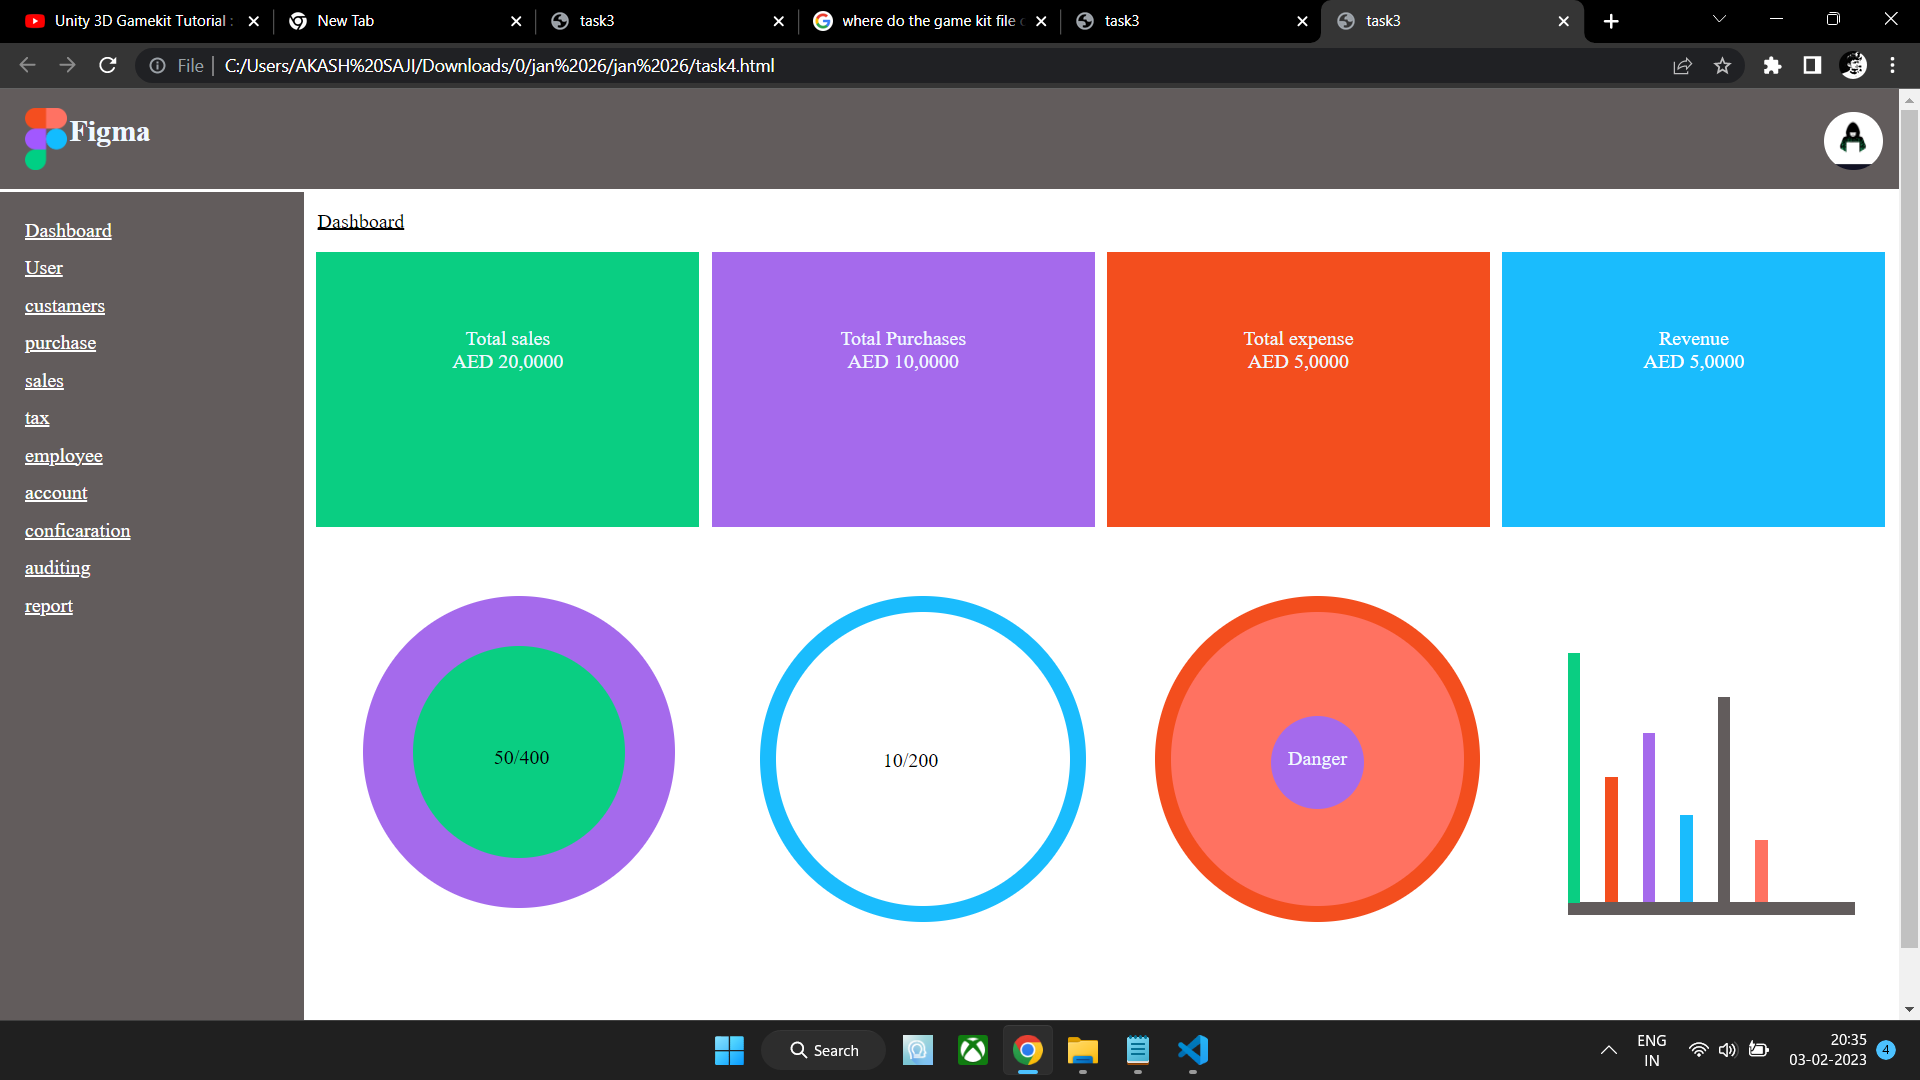
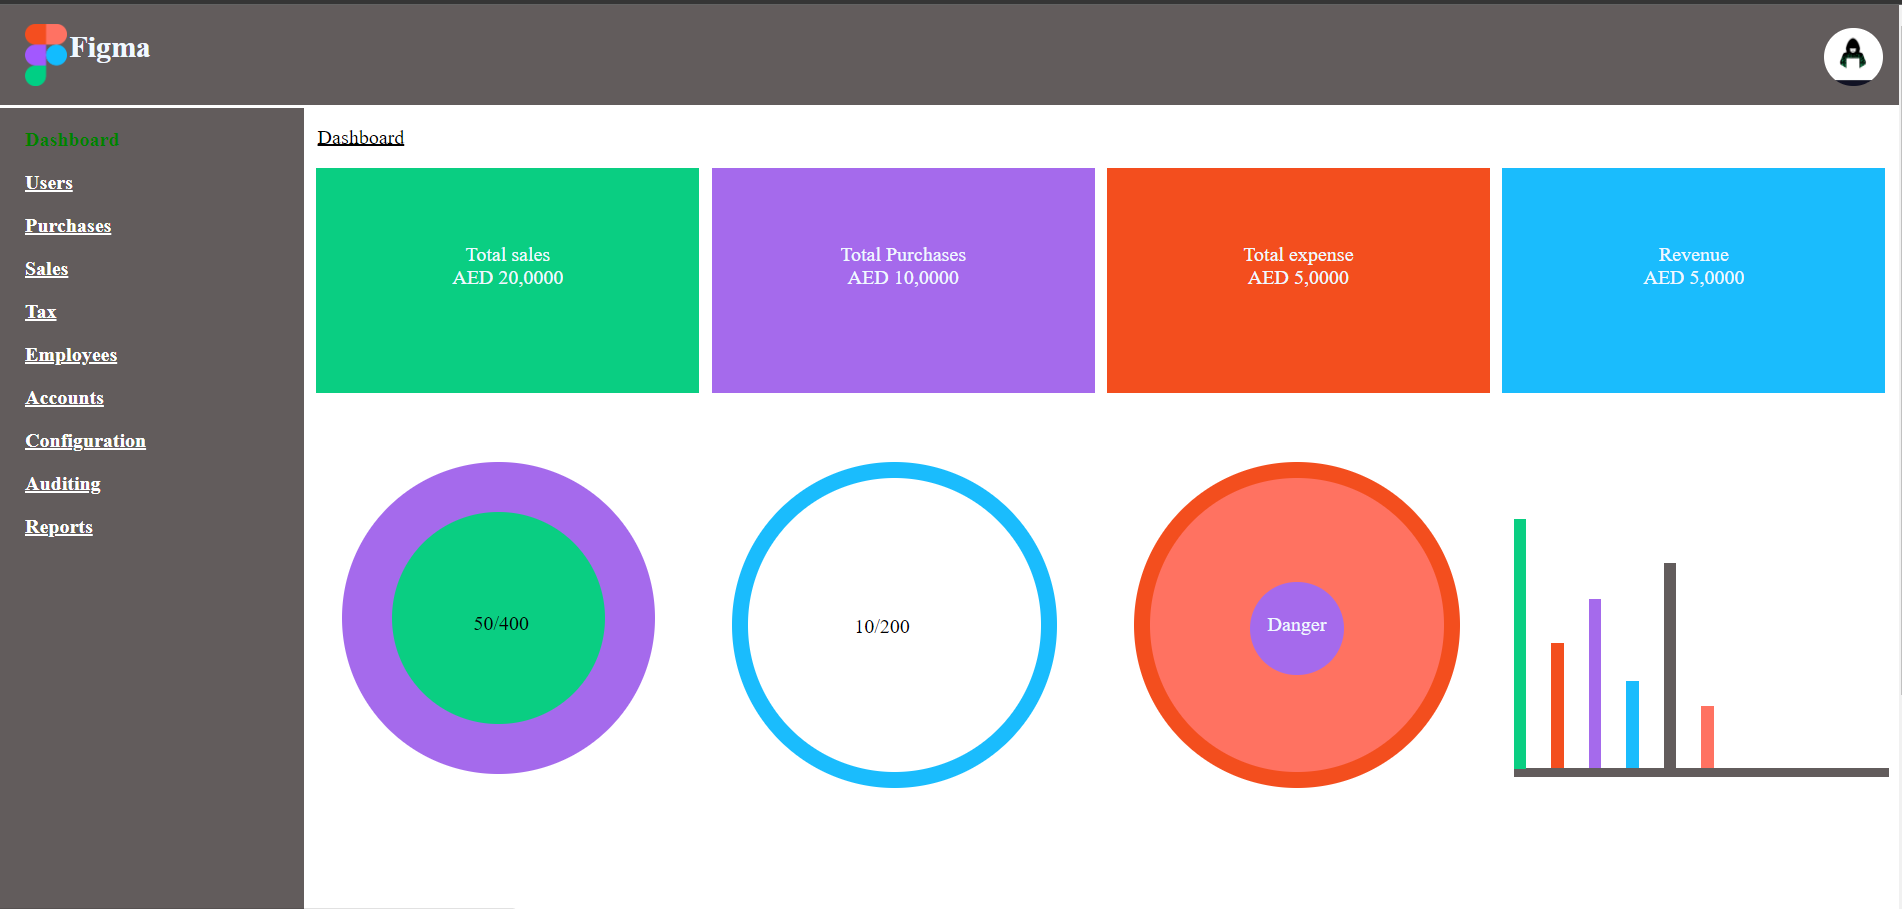
fixed the tasks

diff --git a/task-4/css/style.css b/task-4/css/style.css
@@ -34,7 +34,7 @@ body {
 }
 #sidebar {
   width: 16%;
-  height: 710px;
+  height: 910px;
   overflow: hidden;
   margin-top: 2px;
   background-color: rgb(98, 92, 92);
@@ -45,11 +45,10 @@ body {
   padding-left: 20px;
   color: rgb(255, 255, 255);
 }
-#sidebar h3 a:hover {
+#sidebar p a:hover {
   color: green;
   padding-top: 8px;
   padding-left: 20px;
-
   text-decoration: none;
 }
 #mainbody {
@@ -64,16 +63,16 @@ body {
   color: black;
 }
 #mainbody .dashboard2 {
-width: 24%;
-  height: 220px;
+  width: 24%;
+  height: 180px;
   background-color: rgb(165, 106, 236);
   float: left;
   margin-left: 10px;
   margin-bottom: 55px;
 }
-#mainbody .dashboard3{
+#mainbody .dashboard3 {
   width: 24%;
-  height: 220px;
+  height: 180px;
   background-color: rgb(165, 106, 236);
   float: left;
   margin-left: 10px;
@@ -81,7 +80,7 @@ width: 24%;
 }
 #mainbody .dashboard4 {
   width: 24%;
-  height: 220px;
+  height: 180px;
   background-color: rgb(165, 106, 236);
   float: left;
   margin-left: 10px;
@@ -89,7 +88,7 @@ width: 24%;
 }
 #mainbody .dashboard1 {
   width: 24%;
-  height: 220px;
+  height: 180px;
   background-color: rgb(165, 106, 236);
   float: left;
   margin-left: 10px;
@@ -143,17 +142,17 @@ width: 24%;
   height: 250px;
   background-color: rgb(165, 106, 236);
   float: left;
-  margin-left: 1vw;
+  margin-left: 2vw;
   border-radius: 50%;
 }
 #mainbody .circle3 {
   background-color: rgb(255, 114, 97);
-  margin-left: 1.5vw;
+  margin-left: 4vw;
   border-color: rgb(243, 78, 30);
 }
 #mainbody .circle2 {
   background-color: rgb(255, 255, 255);
-  margin-left: 1.5vw;
+  margin-left: 4vw;
   border-color: rgb(26, 188, 253);
 }
 #mainbody .circle4 {
@@ -181,8 +180,8 @@ width: 24%;
   margin-left: 80px;
 }
 #mainbody .circle4 #horiz {
-  width: 230px;
-  height: 10px;
+  width: 300px;
+  height: 7px;
   background-color: rgb(98, 92, 92);
   margin-top: 245px;
   margin-left: 20px;

diff --git a/task-2/css/style.css b/task-2/css/style.css
@@ -1,17 +1,18 @@
 body {
-  background-color: white;
+  background-color: rgb(49, 26, 27);
+  height: 300px;
   margin: auto;
 }
 #navbar {
-  background-color: rgb(148, 24, 152);
-  height: 130px;
+  background-color: rgb(83, 49, 97);
+  height: 120px;
   border: 2px;
-  margin-bottom: 10px;
+  margin-bottom: 15px;
   display: flex;
   justify-content: space-between;
 }
 #main-container {
-  background-color: rgb(157, 136, 32);
+  background-color: rgb(210, 217, 233);
   height: 300px;
   border: 2px;
   margin-bottom: 10px;
@@ -19,8 +20,8 @@ body {
   margin-right: 15px;
 }
 .boxone {
-  background-color: rgb(12, 12, 134);
-  border: 7px solid rgb(5, 5, 28);
+  background-color: rgb(218, 218, 218);
+  border: 7px solid rgb(80, 162, 73);
   height: 200px;
 }
 h2 {
@@ -57,23 +58,27 @@ h1 {
 .box21 {
   float: left;
   width: 30%;
-  margin-left: 70px;
-  margin-top: 70px;
-  background-color: rgb(251, 251, 251);
-  padding-left: 10px;
-  padding-bottom: 10px;
+  margin-left: 80px;
+  margin-top: 80px;
+  background-color: rgb(80, 162, 73);
+  padding-left: 20px;
+  padding-bottom: 20px;
+}
+.box21 h2,
+.box22 h2 {
+  text-decoration: none;
 }
 .box22 {
   float: right;
   width: 30%;
-  margin-right: 70px;
-  margin-top: 70px;
-  background-color: rgb(247, 250, 251);
-  padding-left: 10px;
-  padding-bottom: 10px;
+  margin-right: 80px;
+  margin-top: 80px;
+  background-color: rgb(80, 162, 73);
+  padding-left: 20px;
+  padding-bottom: 20px;
 }
 .box2 {
-  border: 25px solid rgb(5, 49, 5);
+  border: 25px solid rgb(187, 65, 62);
   margin-top: 15px;
   margin-left: 15px;
   margin-right: 15px;
@@ -81,4 +86,9 @@ h1 {
 }
 .tr h2 {
   text-decoration: none;
+}
+.tr h2 {
+  font-size: 27px;
+  padding: 10px;
+  padding-top: 30px;
 }

diff --git a/task-1/index.html b/task-1/index.html
@@ -16,7 +16,7 @@
       <div class="right">
         <nav>
           <a href="link"><b>Home</b></a> <a href="link"><b>About</b></a>
-          <a href="link"><b>Contact</b></a>
+          <a href="link"><b>Contact Us</b></a>
         </nav>
       </div>
     </div>
@@ -63,13 +63,15 @@
     </div>
     <div class="boxes3">
       <h3>Duis esse exercitation</h3>
-      Lorem ipsum dolor sit amet consectetur adipisicing elit. Sequi,
-      repudiandae. Dolore aliquid consectetur aliquam, molestias fuga saepe
-      molestiae. Tempore, ipsa? Minima aut tenetur eius quaerat molestiae dolor
-      id, tempore illum! Lorem ipsum, dolor sit amet consectetur adipisicing
-      elit. Autem ipsam, maiores minima facilis itaque dignissimos? Aspernatur
-      totam quibusdam modi eos repellendus magnam cumque inventore? Hic id
-      possimus iure consequuntur!
+      <p>
+        Lorem ipsum dolor sit amet consectetur adipisicing elit. Sequi,
+        repudiandae. Dolore aliquid consectetur aliquam, molestias fuga saepe
+        molestiae. Tempore, ipsa? Minima aut tenetur eius quaerat molestiae
+        dolor id, tempore illum! Lorem ipsum, dolor sit amet consectetur
+        adipisicing elit. Autem ipsam, maiores minima facilis itaque
+        dignissimos? Aspernatur totam quibusdam modi eos repellendus magnam
+        cumque inventore? Hic id possimus iure consequuntur!
+      </p>
     </div>
   </body>
 </html>

diff --git a/task-1/css/style.css b/task-1/css/style.css
@@ -1,13 +1,13 @@
 body {
-  background-color: rgb(65, 33, 33);
+  background-color: rgb(51, 33, 33);
   margin: auto;
   width: 100%;
 }
 #nbar {
-  background-color: rgb(100, 60, 117);
+  background-color: rgb(84, 53, 97);
   height: 80px;
   width: auto;
-  margin-bottom: 6.9999px;
+  margin-bottom: 9.9999px;
   padding: 6px;
 }
 .left {
@@ -21,7 +21,7 @@ body {
 .left img {
   height: 60px;
   float: left;
-  margin-top: 15px;
+  margin-top: 10px;
 }
 .left h2 {
   color: rgb(209, 217, 232);
@@ -35,10 +35,10 @@ body {
 }
 #main-co {
   background-color: rgb(209, 217, 232);
-  height: 300px;
+  height: 250px;
   margin-bottom: 6.9999px;
   overflow: hidden;
-  padding: 6px;
+  padding: 25px;
 }
 .boxes1 {
   background-color: rgb(209, 217, 232);
@@ -46,6 +46,7 @@ body {
   float: left;
   width: 32%;
   padding: 6px;
+  padding-top: 5px;
 }
 .boxes2 {
   background-color: rgb(209, 217, 232);
@@ -53,6 +54,8 @@ body {
   float: left;
   width: 32%;
   padding: 6px;
+  padding-left: 5px;
+  padding-top: 5px;
 }
 .boxes3 {
   background-color: rgb(209, 217, 232);
@@ -60,6 +63,7 @@ body {
   float: left;
   width: 32%;
   padding: 6px;
+  padding-top: 5px;
 }
 .boxes2 {
   margin: 0% 0.7% 0.7%;
@@ -69,4 +73,13 @@ body {
 }
 .boxes3 {
   float: right;
+}
+.boxes1 p {
+  padding-left: 5px;
+}
+.boxes2 p {
+  padding-left: 5px;
+}
+.boxes3 p {
+  padding-left: 5px;
 }

diff --git a/task-2/index.html b/task-2/index.html
@@ -14,9 +14,9 @@
         <h2>bettasquirrel</h2>
       </div>
       <div class="tl">
-        <a href="a"><b>home </b></a>
-        <a href="a"><b>about</b> </a>
-        <a href="a"><b>contant </b></a>
+        <a href="a"><b>Home </b></a>
+        <a href="a"><b>About</b> </a>
+        <a href="a"><b>Contant Us</b></a>
       </div>
     </div>
     <div id="main-container">

diff --git a/task-4/index.html b/task-4/index.html
@@ -18,7 +18,7 @@
     </div>
     <div id="sidebar">
       <b>
-        <h3><a href="Dashboard">Dashboard</a></h3>
+        <p><a href="Dashboard">Dashboard</a></p>
         <p><a href="Users">Users</a></p>
         <p><a href="Purchases">Purchases</a></p>
         <p><a href="Sales">Sales</a></p>

diff --git a/README.md b/README.md
@@ -75,5 +75,7 @@
 ### **Task 6**
 
 - my page [Click here](https://akash-saji.github.io/betasquirrel-task/)
+- stack overflow account [Click here](https://stackoverflow.com/users/21205553/akash-saji)
+- linkedin account [Click here](https://www.linkedin.com/in/akash-saji-358204266) 
 
 ## end
